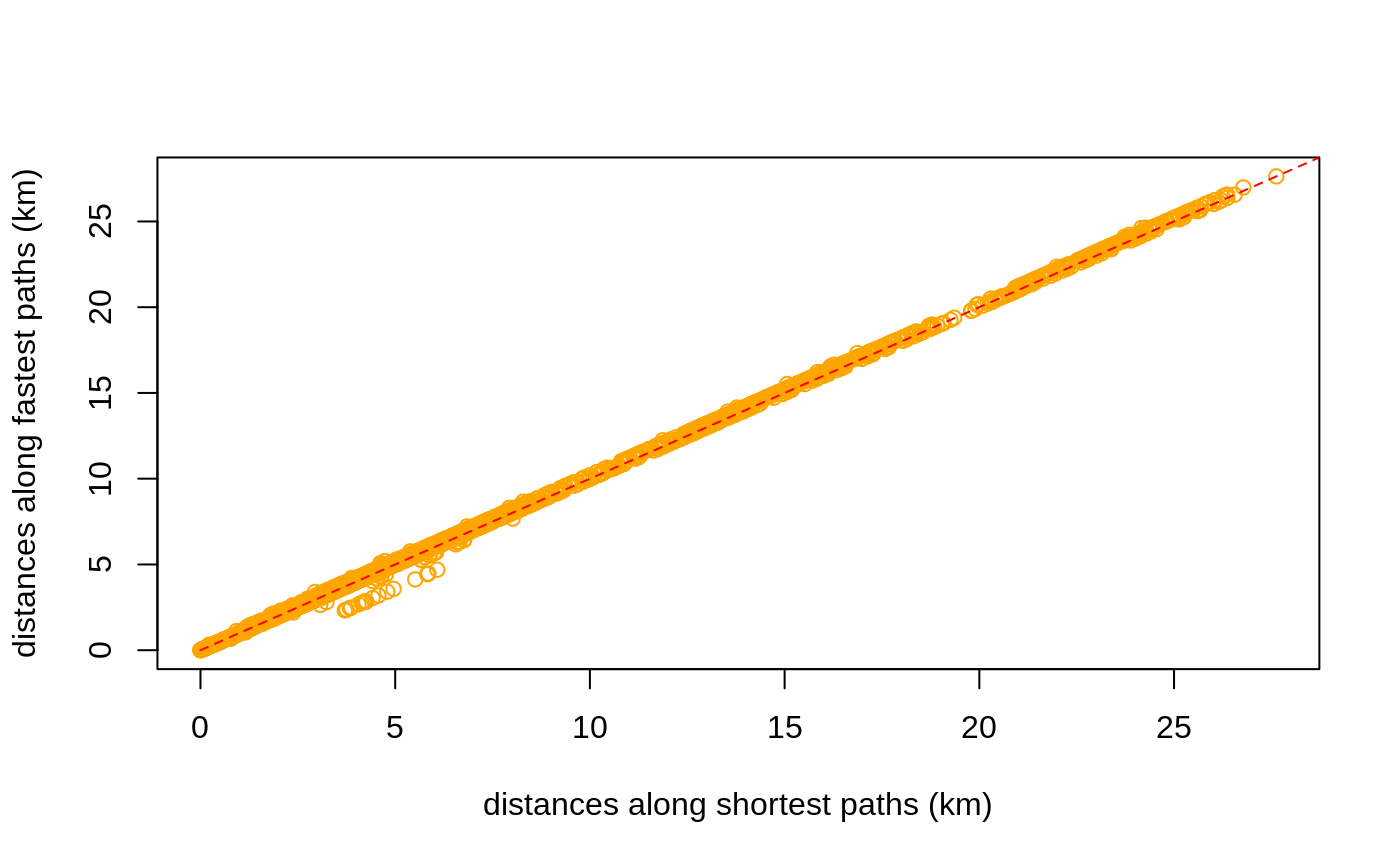
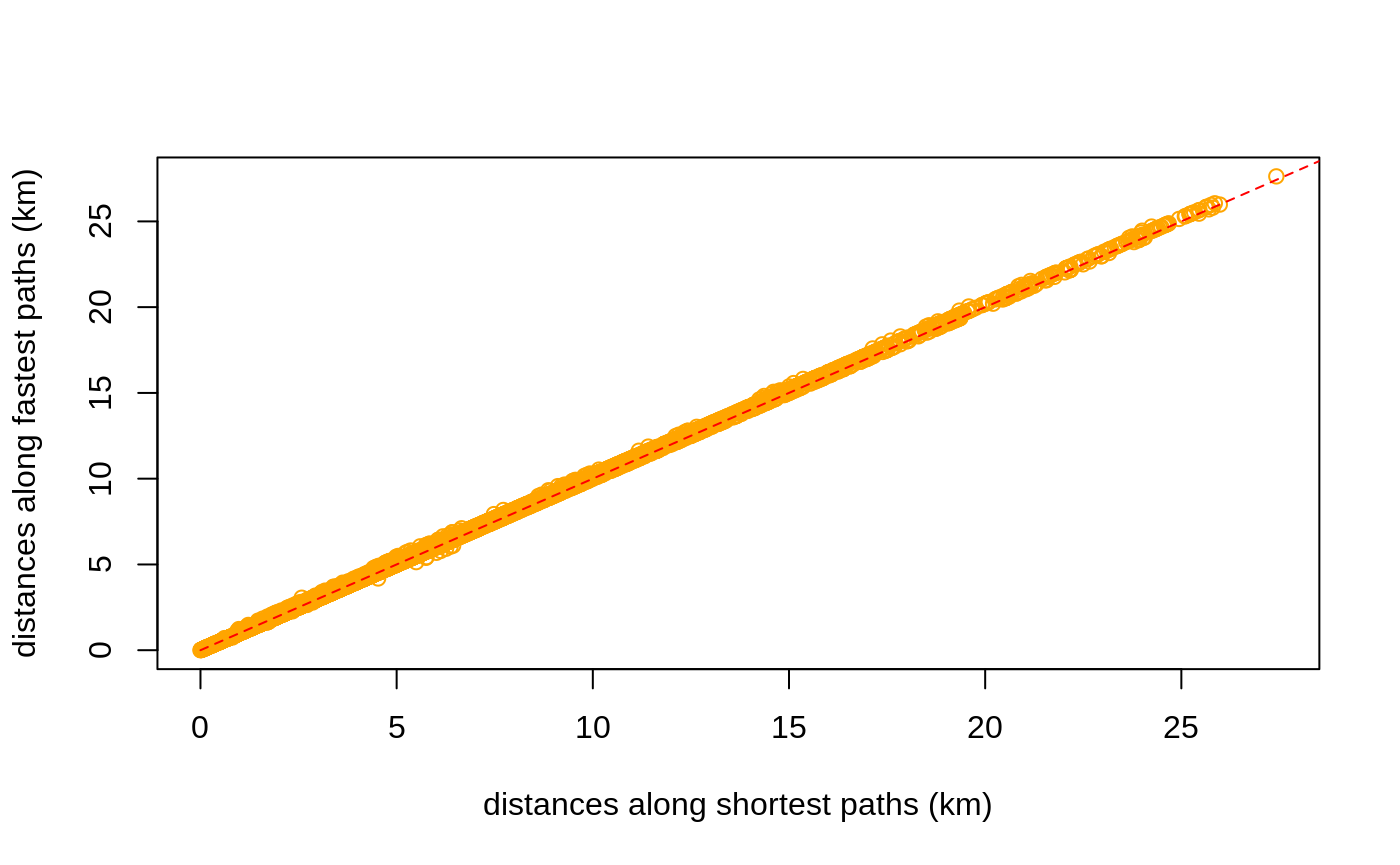
Built site for dodgr: 0.2.1@0293e0c

diff --git a/articles/dodgr.html b/articles/dodgr.html
@@ -346,7 +346,7 @@ Figure 2: A <strong>dual</strong>-weighted, directed graph in which the weights 
 <p>The <code>dodgr</code> packages includes a function to select a random connected portion of graph including a specified number of vertices. This function is used in the <a href="https://atfutures.github.io/dodgr/reference/compare_heaps.html"><code><a href="../reference/compare_heaps.html">compare_heaps()</a></code></a> function described below, but is also useful for general statistical analyses of large graphs which may otherwise take too long to compute.</p>
 <div class="sourceCode" id="cb58"><pre class="sourceCode r"><code class="sourceCode r"><a class="sourceLine" id="cb58-1" data-line-number="1">graph_sub &lt;-<span class="st"> </span><span class="kw"><a href="../reference/dodgr_sample.html">dodgr_sample</a></span> (graph, <span class="dt">nverts =</span> <span class="dv">100</span>)</a>
 <a class="sourceLine" id="cb58-2" data-line-number="2"><span class="kw"><a href="https://rdrr.io/r/base/nrow.html">nrow</a></span> (graph_sub)</a></code></pre></div>
-<pre><code>## [1] 197</code></pre>
+<pre><code>## [1] 207</code></pre>
 <p>The random sample has around twice as many edges as vertices, in accordance with the statistics calculated above.</p>
 <div class="sourceCode" id="cb60"><pre class="sourceCode r"><code class="sourceCode r"><a class="sourceLine" id="cb60-1" data-line-number="1"><span class="kw"><a href="https://rdrr.io/r/base/nrow.html">nrow</a></span> (<span class="kw"><a href="../reference/dodgr_vertices.html">dodgr_vertices</a></span> (graph_sub))</a></code></pre></div>
 <pre><code>## [1] 100</code></pre>
@@ -369,7 +369,7 @@ Figure 2: A <strong>dual</strong>-weighted, directed graph in which the weights 
 <div class="sourceCode" id="cb63"><pre class="sourceCode r"><code class="sourceCode r"><a class="sourceLine" id="cb63-1" data-line-number="1">d &lt;-<span class="st"> </span><span class="kw"><a href="../reference/dodgr_dists.html">dodgr_dists</a></span> (graph, <span class="dt">from =</span> xy)</a>
 <a class="sourceLine" id="cb63-2" data-line-number="2"><span class="kw"><a href="https://rdrr.io/r/base/dim.html">dim</a></span> (d); <span class="kw"><a href="https://rdrr.io/r/base/range.html">range</a></span> (d, <span class="dt">na.rm =</span> <span class="ot">TRUE</span>)</a></code></pre></div>
 <pre><code>## [1]  100 2926</code></pre>
-<pre><code>## [1]     0.00 28677.34</code></pre>
+<pre><code>## [1]     0.00 28081.71</code></pre>
 <p>If the <code>to</code> argument is also specified, the matrix returned will have rows matching <code>from</code> and columns matching <code>to</code></p>
 <div class="sourceCode" id="cb66"><pre class="sourceCode r"><code class="sourceCode r"><a class="sourceLine" id="cb66-1" data-line-number="1">d &lt;-<span class="st"> </span><span class="kw"><a href="../reference/dodgr_dists.html">dodgr_dists</a></span> (graph, <span class="dt">from =</span> xy, <span class="dt">to =</span> xy [<span class="dv">1</span><span class="op">:</span><span class="dv">10</span>, ])</a>
 <a class="sourceLine" id="cb66-2" data-line-number="2"><span class="kw"><a href="https://rdrr.io/r/base/dim.html">dim</a></span> (d)</a></code></pre></div>
@@ -427,27 +427,27 @@ Figure 2: A <strong>dual</strong>-weighted, directed graph in which the weights 
 ## 11        d &lt;- dodgr_dists(graph_contracted, from = from_id, to = to_id, heap = "set")
 ## 7       d &lt;- dodgr_dists(graph_contracted, from = from_id, to = to_id, heap = "FHeap")
 ## 9  d &lt;- dodgr_dists(graph_contracted, from = from_id, to = to_id, heap = "TriHeapExt")
-## 8     d &lt;- dodgr_dists(graph_contracted, from = from_id, to = to_id, heap = "TriHeap")
 ## 10     d &lt;- dodgr_dists(graph_contracted, from = from_id, to = to_id, heap = "Heap23")
+## 8     d &lt;- dodgr_dists(graph_contracted, from = from_id, to = to_id, heap = "TriHeap")
 ## 1                  d &lt;- dodgr_dists(graph, from = from_id, to = to_id, heap = "BHeap")
 ## 12                  d &lt;- igraph::distances(igr, v = from_id, to = to_id, mode = "out")
 ## 2                  d &lt;- dodgr_dists(graph, from = from_id, to = to_id, heap = "FHeap")
-## 5                 d &lt;- dodgr_dists(graph, from = from_id, to = to_id, heap = "Heap23")
 ## 3                d &lt;- dodgr_dists(graph, from = from_id, to = to_id, heap = "TriHeap")
+## 5                 d &lt;- dodgr_dists(graph, from = from_id, to = to_id, heap = "Heap23")
 ## 4             d &lt;- dodgr_dists(graph, from = from_id, to = to_id, heap = "TriHeapExt")
 ##    replications elapsed relative user.self sys.self user.child sys.child
-## 6             1   0.004     1.00     0.006        0          0         0
-## 11            1   0.005     1.25     0.006        0          0         0
-## 7             1   0.006     1.50     0.009        0          0         0
-## 9             1   0.006     1.50     0.006        0          0         0
-## 8             1   0.007     1.75     0.009        0          0         0
-## 10            1   0.007     1.75     0.009        0          0         0
-## 1             1   0.015     3.75     0.022        0          0         0
-## 12            1   0.021     5.25     0.020        0          0         0
-## 2             1   0.022     5.50     0.038        0          0         0
-## 5             1   0.025     6.25     0.043        0          0         0
-## 3             1   0.026     6.50     0.045        0          0         0
-## 4             1   0.027     6.75     0.028        0          0         0</code></pre>
+## 6             1   0.005      1.0     0.006    0.000          0         0
+## 11            1   0.005      1.0     0.003    0.004          0         0
+## 7             1   0.006      1.2     0.010    0.000          0         0
+## 9             1   0.007      1.4     0.008    0.000          0         0
+## 10            1   0.007      1.4     0.011    0.000          0         0
+## 8             1   0.008      1.6     0.011    0.000          0         0
+## 1             1   0.016      3.2     0.026    0.000          0         0
+## 12            1   0.023      4.6     0.023    0.000          0         0
+## 2             1   0.024      4.8     0.042    0.000          0         0
+## 3             1   0.029      5.8     0.051    0.000          0         0
+## 5             1   0.029      5.8     0.051    0.000          0         0
+## 4             1   0.032      6.4     0.032    0.000          0         0</code></pre>
 <p>The key column of that <code>data.frame</code> is <code>relative</code>, which quantifies the relative performance of each test in relation to the best which is given a score of 1. <code>dodgr</code> using the default <code>heap = "BHeap"</code>, which is a binary heap priority queue, performs faster than <a href="https://igraph.org"><code>igraph</code></a> <span class="citation">(Csardi and Nepusz 2006)</span> for these graphs. Different kind of graphs will perform differently with different priority queue structures, and this function enables users to empirically discern the optimal heap for their kind of graph.</p>
 <p>Note, however, that this is not an entirely fair comparison, because <code>dodgr</code> calculates dual-weighted distances, whereas <a href="https://igraph.org"><code>igraph</code></a>—and indeed all other <strong>R</strong> packages—only directly calculate distances based on a single set of weights. Implementing dual-weighted routing in these cases requires explicitly re-tracing all paths and summing the second set of weights along each path. A time comparison in that case would be very strongly in favour of <code>dodgr</code>. Moreover, <code>dodgr</code> can convert graphs to contracted form through removing redundant vertices, as detailed in the following section. Doing so greatly improves performance with respect to <a href="https://igraph.org"><code>igraph</code></a>.</p>
 <p>For those wishing to do explicit comparisons themselves, the following code generates the <a href="https://igraph.org"><code>igraph</code></a> equivalent of <a href="https://atfutures.github.io/dodgr/reference/dodgr_distances.html"><code><a href="../reference/dodgr_distances.html">dodgr_distances()</a></code></a>, although of course for single-weighted graphs only:</p>
@@ -482,11 +482,11 @@ Figure 3: <strong>(A)</strong> Vertex#2 is redundant for routing calculations fr
 <a class="sourceLine" id="cb84-5" data-line-number="5">                       d2 &lt;-<span class="st"> </span><span class="kw"><a href="../reference/dodgr_dists.html">dodgr_dists</a></span> (graph, <span class="dt">from =</span> from, <span class="dt">to =</span> to),</a>
 <a class="sourceLine" id="cb84-6" data-line-number="6">                       <span class="dt">replications =</span> <span class="dv">2</span>)</a></code></pre></div>
 <pre><code>##                                             test replications elapsed
-## 2 d2 &lt;- dodgr_dists(graph, from = from, to = to)            2   0.044
-## 1   d2 &lt;- dodgr_dists(grc, from = from, to = to)            2   0.008
+## 2 d2 &lt;- dodgr_dists(graph, from = from, to = to)            2   0.045
+## 1   d2 &lt;- dodgr_dists(grc, from = from, to = to)            2   0.010
 ##   relative user.self sys.self user.child sys.child
-## 2      5.5     0.062        0          0         0
-## 1      1.0     0.011        0          0         0</code></pre>
+## 2      4.5     0.064    0.000          0         0
+## 1      1.0     0.008    0.004          0         0</code></pre>
 <p>And contracting the graph has a similar effect of speeding up pairwise routing between these 100 points. All routing algorithms scale non-linearly with size, and relative improvements in efficiency will be even greater for larger graphs.</p>
 <div id="routing-on-contracted-graphs" class="section level2">
 <h2 class="hasAnchor">
@@ -498,11 +498,11 @@ Figure 3: <strong>(A)</strong> Vertex#2 is redundant for routing calculations fr
 <pre><code>## [1] 672</code></pre>
 <div class="sourceCode" id="cb88"><pre class="sourceCode r"><code class="sourceCode r"><a class="sourceLine" id="cb88-1" data-line-number="1">verts &lt;-<span class="st"> </span><span class="kw"><a href="https://rdrr.io/r/base/sample.html">sample</a></span> (<span class="kw"><a href="../reference/dodgr_vertices.html">dodgr_vertices</a></span> (graph)<span class="op">$</span>id, <span class="dt">size =</span> <span class="dv">100</span>)</a>
 <a class="sourceLine" id="cb88-2" data-line-number="2"><span class="kw"><a href="https://rdrr.io/r/utils/head.html">head</a></span> (verts) <span class="co"># a character vector</span></a></code></pre></div>
-<pre><code>## [1] "2627422270" "6161853540" "2398957988" "2195425065" "2608076457"
-## [6] "2398957591"</code></pre>
+<pre><code>## [1] "980400701"  "3818704553" "2195424982" "2398957756" "339288064" 
+## [6] "339574833"</code></pre>
 <div class="sourceCode" id="cb90"><pre class="sourceCode r"><code class="sourceCode r"><a class="sourceLine" id="cb90-1" data-line-number="1">grc &lt;-<span class="st"> </span><span class="kw"><a href="../reference/dodgr_contract_graph.html">dodgr_contract_graph</a></span> (graph, verts)</a>
 <a class="sourceLine" id="cb90-2" data-line-number="2"><span class="kw"><a href="https://rdrr.io/r/base/nrow.html">nrow</a></span> (grc)</a></code></pre></div>
-<pre><code>## [1] 844</code></pre>
+<pre><code>## [1] 848</code></pre>
 <p>Retaining the nominated vertices yields a graph with considerably more edges than the fully contracted graph excluding these vertices. The <a href="https://atfutures.github.io/dodgr/reference/dodgr_distances.html"><code><a href="../reference/dodgr_distances.html">dodgr_distances()</a></code></a> function can be applied to the latter graph to obtain accurate distances precisely routed between these points, yet using the speed advantages of graph contraction.</p>
 </div>
 </div>
@@ -543,74 +543,41 @@ Figure 3: <strong>(A)</strong> Vertex#2 is redundant for routing calculations fr
 <pre><code>## [1] 10</code></pre>
 <p>The result (<code>dp</code>) is a list of 10 items, each of which contains 5 vectors. An example is,</p>
 <div class="sourceCode" id="cb97"><pre class="sourceCode r"><code class="sourceCode r"><a class="sourceLine" id="cb97-1" data-line-number="1">dp [[<span class="dv">1</span>]] [[<span class="dv">1</span>]]</a></code></pre></div>
-<pre><code>##   [1] "2717241327" "2717241336" "2717241333" "2717241308" "339574826" 
-##   [6] "339574825"  "339574824"  "339574823"  "1668645472" "1668645470"
-##  [11] "3818714154" "339574820"  "339574819"  "3818714155" "2398957686"
-##  [16] "339574631"  "2717241324" "1148814809" "2398957654" "2398957639"
-##  [21] "339574630"  "339574629"  "2398957619" "339574628"  "1427115955"
-##  [26] "338905128"  "1376769164" "1376768779" "338905219"  "2398957589"
-##  [31] "2398957588" "1376768510" "1376769086" "2398957584" "338905220" 
-##  [36] "2398957576" "1427594104" "2398957571" "2398957570" "2398957568"
-##  [41] "338905221"  "2398957564" "338905227"  "2398957561" "2398957557"
-##  [46] "2398957549" "338905245"  "2398957546" "2398957544" "2398957543"
-##  [51] "2398957542" "676635860"  "2398957537" "2398957532" "2398957526"
-##  [56] "2398957521" "676875267"  "2398957539" "2419196948" "313796433" 
-##  [61] "1376768773" "2398957554" "2398957555" "313796432"  "3338186986"
-##  [66] "2398957563" "2398957567" "313796431"  "313796430"  "1376769158"
-##  [71] "1427594112" "313796429"  "2398957603" "313796428"  "313796427" 
-##  [76] "1128374399" "313796426"  "1128374495" "2398957696" "2398957701"
-##  [81] "1376768565" "2398957713" "1376769010" "2398957720" "313796425" 
-##  [86] "2398957722" "1376768805" "245631169"  "676875269"  "1128374442"
-##  [91] "1376769190" "1128374412" "6161027522" "1128374373" "1128374467"
-##  [96] "1376768504" "1161117304" "1376768867" "676875274"  "1376768293"
-## [101] "1376768650" "1128374447" "1376769132" "676875308"  "1376768537"
-## [106] "1161117735" "1376768899" "1161117723" "1376768325" "1376768597"
-## [111] "1357430113" "1376768957" "676875276"  "1376768380" "1357430014"
-## [116] "1376768749" "1376769220" "1128374360" "1161117548" "1357430213"
-## [121] "676875279"  "1128374362" "1376768627" "245631194"  "1376768986"
-## [126] "1376768409" "1128374418" "977461235"  "1376768691" "2398957816"
-## [131] "1128374394" "2398957826" "2398957837" "1376769040" "1376768479"
-## [136] "677638770"  "1376768821" "1128374434" "2398957895" "2398957896"
-## [141] "1376768842" "1128374455" "1376768355" "677638819"  "1376768724"
-## [146] "2398957939" "1161117636" "2398957968" "1128374490" "2398958005"
-## [151] "2398958010" "1161117434" "6433630456" "677638818"  "2398958040"
-## [156] "2398958041" "2398958043" "2398958044" "1161117327" "1128374463"
-## [161] "1691496075" "1691496072" "1161117278" "1691496070" "677638820" 
-## [166] "1161117679" "1691496079" "1161117383" "1691495929" "1161117501"
-## [171] "1376769146" "1161117440" "1691495934" "1161117756" "1691495939"
-## [176] "1161117392" "1691495943" "1691495952" "1161117526" "1691495982"
-## [181] "1161117586" "1161117652" "677638817"  "1691495985" "1691495910"
-## [186] "1161117288" "1691496204" "1691496236" "1161117404" "1691496237"
-## [191] "1691496247" "1161117704" "1691496243" "1691496251" "1161117663"
-## [196] "1691495937" "1691495665" "1161117302" "1691495672" "1161117452"
-## [201] "1691495677" "1691495680" "1691495693" "1161117543" "1691495696"
-## [206] "245631502"  "1691495698" "1161117349" "1691495717" "1691495720"
-## [211] "1691495723" "677638823"  "677638822"  "1691495727" "676875383" 
-## [216] "1691496081" "1161117620" "1161117473" "1691496086" "677638821" 
-## [221] "1691496190" "1691496364" "1161117772" "1161117358" "1161117413"
-## [226] "677638829"  "1691496367" "1691495745" "1691496372" "1691496406"
-## [231] "1691496404" "1691496375" "1691496407" "677638825"  "1691496409"
-## [236] "1161117556" "1691496412" "677638828"  "1691496416" "677638827" 
-## [241] "3544918684" "3544918688" "3544918690" "3544918692" "3544918695"
-## [246] "1691496284" "3544918699" "3544918701" "3544918705" "3544918708"
-## [251] "3544918716" "3544918720" "3544918725" "3544918731" "3544918732"
-## [256] "3544918733" "3544918735" "3544918740" "3544918741" "3544918742"
-## [261] "3544918739" "3544918737" "3544918736" "3544918738" "3544918734"
-## [266] "3544918730" "3544918729" "3544918728" "3544918727" "3544918722"
-## [271] "3544918718" "3544918717" "3544918715" "3544918714" "3544918712"
-## [276] "3544918710" "3544918709" "3544918711" "3544918713" "3544918719"
-## [281] "3544918726" "3544918745"</code></pre>
+<pre><code>##   [1] "5351515767" "5351515766" "571423197"  "1388482150" "571423196" 
+##   [6] "5351515768" "5366412454" "571423195"  "571423194"  "571423457" 
+##  [11] "571423455"  "571423453"  "571423451"  "571423445"  "571423444" 
+##  [16] "571423442"  "2195425022" "2195425021" "2195425017" "2195425015"
+##  [21] "2195425011" "2195425009" "2195425008" "2195425007" "2195425006"
+##  [26] "2195425001" "3921514726" "5358983984" "3921514728" "3921514727"
+##  [31] "3921514722" "3921514724" "3921514719" "3921514721" "3921514723"
+##  [36] "3921514720" "3921514718" "571423169"  "571423164"  "571423157" 
+##  [41] "2627444773" "2627444772" "2627444771" "571423824"  "571423823" 
+##  [46] "571423821"  "571423820"  "1143452467" "2627444770" "571423819" 
+##  [51] "1143452332" "571423818"  "571423815"  "571423809"  "1143452536"
+##  [56] "1143452116" "571423799"  "1143452264" "571423793"  "3697940693"
+##  [61] "3697940688" "1143452506" "1143452099" "1143452234" "1143452360"
+##  [66] "1143452063" "1143452135" "1143452293" "1143452415" "1143452087"
+##  [71] "1143452174" "1143452183" "1143452379" "1143452262" "1143452410"
+##  [76] "1143452232" "2627440424" "2627440420" "1143452145" "1143452534"
+##  [81] "1143452383" "1143452207" "1143452113" "1143452463" "1143452327"
+##  [86] "1143452165" "2627428625" "2627428633" "2627428631" "2627428628"
+##  [91] "2627428627" "2627428629" "2627428647" "2627428637" "2627430653"
+##  [96] "2627428651" "2627428638" "2627428646" "2627428641" "2627428645"
+## [101] "2627428643" "3921512068" "2627428642" "2627428640" "2627428636"
+## [106] "2608163935" "2627428648" "2627428650" "2608163925" "2608163923"
+## [111] "2608163921" "2608163920" "2608163919" "2608163918" "2608163917"
+## [116] "2608163916" "2608163915" "2608163914" "2608163913" "4337853836"</code></pre>
 <p>For spatial graphs, the coordinates of these paths can be obtained by extracting the vertices with <code><a href="../reference/dodgr_vertices.html">dodgr_vertices()</a></code> and matching the vertex IDs:</p>
 <div class="sourceCode" id="cb99"><pre class="sourceCode r"><code class="sourceCode r"><a class="sourceLine" id="cb99-1" data-line-number="1">verts &lt;-<span class="st"> </span><span class="kw"><a href="../reference/dodgr_vertices.html">dodgr_vertices</a></span> (graph)</a>
 <a class="sourceLine" id="cb99-2" data-line-number="2">path1 &lt;-<span class="st"> </span>verts [<span class="kw"><a href="https://rdrr.io/r/base/match.html">match</a></span> (dp [[<span class="dv">1</span>]] [[<span class="dv">1</span>]], verts<span class="op">$</span>id), ]</a>
 <a class="sourceLine" id="cb99-3" data-line-number="3"><span class="kw"><a href="https://rdrr.io/r/utils/head.html">head</a></span> (path1)</a></code></pre></div>
-<pre><code>##              id        x        y component    n
-## 4388 2717241327 76.47233 15.32016         1 2188
-## 4390 2717241336 76.47211 15.31990         1 2189
-## 4392 2717241333 76.47200 15.31976         1 2190
-## 4394 2717241308 76.47182 15.31964         1 2191
-## 548   339574826 76.47161 15.31962         1  279
-## 546   339574825 76.47156 15.31936         1  278</code></pre>
+<pre><code>##              id        x        y component   n
+## 1706 5351515767 76.47885 15.35852         2 864
+## 1704 5351515766 76.47801 15.35853         2 863
+## 1702  571423197 76.47671 15.35856         2 862
+## 1700 1388482150 76.47641 15.35847         2 861
+## 1698  571423196 76.47626 15.35833         2 860
+## 1696 5351515768 76.47600 15.35806         2 859</code></pre>
 <p>Paths calculated on contracted graphs will of course have fewer vertices than those calculated on full graphs.</p>
 </div>
 <div id="aggregated-flows" class="section level1">
@@ -654,7 +621,7 @@ Figure 3: <strong>(A)</strong> Vertex#2 is redundant for routing calculations fr
 <p>Most flows are zero because they have only been calculated between very few points in the graph.</p>
 <div class="sourceCode" id="cb104"><pre class="sourceCode r"><code class="sourceCode r"><a class="sourceLine" id="cb104-1" data-line-number="1"><span class="kw"><a href="https://rdrr.io/r/base/summary.html">summary</a></span> (graph_f<span class="op">$</span>flow)</a></code></pre></div>
 <pre><code>##    Min. 1st Qu.  Median    Mean 3rd Qu.    Max. 
-##   0.000   0.000   0.000   6.882   0.000  91.170</code></pre>
+##  0.0000  0.0000  0.0000  5.5647  0.6107 66.1367</code></pre>
 </div>
 <div id="flow-dispersal" class="section level2">
 <h2 class="hasAnchor">
@@ -663,8 +630,8 @@ Figure 3: <strong>(A)</strong> Vertex#2 is redundant for routing calculations fr
 <div class="sourceCode" id="cb106"><pre class="sourceCode r"><code class="sourceCode r"><a class="sourceLine" id="cb106-1" data-line-number="1">dens &lt;-<span class="st"> </span><span class="kw"><a href="https://rdrr.io/r/base/rep.html">rep</a></span> (<span class="dv">1</span>, <span class="kw"><a href="https://rdrr.io/r/base/length.html">length</a></span> (from)) <span class="co"># uniform densities</span></a>
 <a class="sourceLine" id="cb106-2" data-line-number="2">graph_f &lt;-<span class="st"> </span><span class="kw"><a href="../reference/dodgr_flows_disperse.html">dodgr_flows_disperse</a></span> (graph, <span class="dt">from =</span> from, <span class="dt">dens =</span> dens)</a>
 <a class="sourceLine" id="cb106-3" data-line-number="3"><span class="kw"><a href="https://rdrr.io/r/base/summary.html">summary</a></span> (graph_f<span class="op">$</span>flow)</a></code></pre></div>
-<pre><code>##     Min.  1st Qu.   Median     Mean  3rd Qu.     Max. 
-## 0.000000 0.000000 0.009538 0.128795 0.145532 1.413170</code></pre>
+<pre><code>##    Min. 1st Qu.  Median    Mean 3rd Qu.    Max. 
+## 0.00000 0.00000 0.00838 0.10536 0.11043 1.19536</code></pre>
 </div>
 <div id="merging-directed-flows" class="section level2">
 <h2 class="hasAnchor">
@@ -674,7 +641,7 @@ Figure 3: <strong>(A)</strong> Vertex#2 is redundant for routing calculations fr
 <p>Resultant graphs produced by <a href="https://atfutures.github.io/dodgr/reference/merge_directed_flows.html"><code><a href="../reference/merge_directed_flows.html">merge_directed_flows()</a></code></a> only include those edges having non-zero flows, and so:</p>
 <div class="sourceCode" id="cb109"><pre class="sourceCode r"><code class="sourceCode r"><a class="sourceLine" id="cb109-1" data-line-number="1"><span class="kw"><a href="https://rdrr.io/r/base/nrow.html">nrow</a></span> (graph_f); <span class="kw"><a href="https://rdrr.io/r/base/nrow.html">nrow</a></span> (graph_undir) <span class="co"># the latter is much smaller</span></a></code></pre></div>
 <pre><code>## [1] 5973</code></pre>
-<pre><code>## [1] 2924</code></pre>
+<pre><code>## [1] 2784</code></pre>
 <p>The resultant graph can readily be merged with the original graph to regain the original data on vertex coordinates through</p>
 <div class="sourceCode" id="cb112"><pre class="sourceCode r"><code class="sourceCode r"><a class="sourceLine" id="cb112-1" data-line-number="1">graph &lt;-<span class="st"> </span>graph [graph_undir<span class="op">$</span>edge_id, ]</a>
 <a class="sourceLine" id="cb112-2" data-line-number="2">graph<span class="op">$</span>flow &lt;-<span class="st"> </span>graph_undir<span class="op">$</span>flow</a></code></pre></div>

diff --git a/articles/times.html b/articles/times.html
@@ -230,11 +230,11 @@ Figure 1: Graph modification to account for turn penalties, which introduces the
 <p><img src="times_files/figure-html/shortest-vs-fastest-1.png" width="700"></p>
 <p>The average distance between the two (in metres) is:</p>
 <div class="sourceCode" id="cb9"><pre class="sourceCode r"><code class="sourceCode r"><a class="sourceLine" id="cb9-1" data-line-number="1"><span class="kw"><a href="https://rdrr.io/r/base/mean.html">mean</a></span> (<span class="kw"><a href="https://rdrr.io/r/base/MathFun.html">abs</a></span> (d_time <span class="op">-</span><span class="st"> </span>d_dist), <span class="dt">na.rm =</span> <span class="ot">TRUE</span>)</a></code></pre></div>
-<pre><code>## [1] 42.15932</code></pre>
+<pre><code>## [1] 61.92335</code></pre>
 <p>The plot reveals that shortest distances are indeed somewhat shorter than distances along fastest paths, but also that some fastest paths are actually shorter than shortest paths:</p>
 <div class="sourceCode" id="cb11"><pre class="sourceCode r"><code class="sourceCode r"><a class="sourceLine" id="cb11-1" data-line-number="1">index &lt;-<span class="st"> </span><span class="kw"><a href="https://rdrr.io/r/base/which.html">which</a></span> (<span class="op">!</span><span class="kw"><a href="https://rdrr.io/r/base/NA.html">is.na</a></span> (d_time) <span class="op">&amp;</span><span class="st"> </span><span class="op">!</span><span class="kw"><a href="https://rdrr.io/r/base/NA.html">is.na</a></span> (d_dist))</a>
 <a class="sourceLine" id="cb11-2" data-line-number="2"><span class="kw"><a href="https://rdrr.io/r/base/length.html">length</a></span> (<span class="kw"><a href="https://rdrr.io/r/base/which.html">which</a></span> (d_time [index] <span class="op">&lt;</span><span class="st"> </span>d_dist [index])) <span class="op">/</span><span class="st"> </span><span class="kw"><a href="https://rdrr.io/r/base/length.html">length</a></span> (index)</a></code></pre></div>
-<pre><code>## [1] 0.02313433</code></pre>
+<pre><code>## [1] 0.003161222</code></pre>
 <p>While <code>dodgr</code> and indeed all routing engines attempt to maximally reconcile differences between fastest and shortest routes, there nevertheless remain important discrepancies. Foremost among these, and the primary reason why some fastest routes may in fact be shorter than shortest routes, is that fastest routes allocate preferences for different kinds of way based both on the <code>value</code> column in the <code>weighting_profiles$weighting_profiles</code> table illustrated above, and on the actual maximum speed of a given edge, which itself may be a combination of maximum speeds as specified in OSM itself, maximum speeds from the <code>weighting_profiles$weighting_profiles</code> table, or values specific to a given surface. The result is that some unique combination of maximum speeds along a network may lead to <em>fastest</em> routes being preferentially directed along a path that is actually shorter than the direct shortest path which is calculated independent of maximum speed values.</p>
 <p>Such discrepancies are important in understanding differences in routes <em>times</em> calculated along shortest versus fastest paths. These times can be calculated (in seconds) with the <a href="https://atfutures.github.io/dodgr/reference/dodgr_times.html"><code><a href="../reference/dodgr_times.html">dodgr_times()</a></code></a> function:</p>
 <div class="sourceCode" id="cb13"><pre class="sourceCode r"><code class="sourceCode r"><a class="sourceLine" id="cb13-1" data-line-number="1">t_dist &lt;-<span class="st"> </span><span class="kw"><a href="../reference/dodgr_times.html">dodgr_times</a></span> (graph, <span class="dt">from =</span> from, <span class="dt">to =</span> to, <span class="dt">shortest =</span> <span class="ot">TRUE</span>) <span class="co"># default</span></a>
@@ -245,11 +245,11 @@ Figure 1: Graph modification to account for turn penalties, which introduces the
 <a class="sourceLine" id="cb13-6" data-line-number="6"><span class="kw"><a href="https://rdrr.io/r/graphics/lines.html">lines</a></span> (<span class="dv">0</span><span class="op">:</span><span class="dv">100</span>, <span class="dv">0</span><span class="op">:</span><span class="dv">100</span>, <span class="dt">col =</span> <span class="st">"red"</span>, <span class="dt">lty =</span> <span class="dv">2</span>)</a></code></pre></div>
 <p><img src="times_files/figure-html/shortest-vs-fastest-times-1.png" width="700"></p>
 <div class="sourceCode" id="cb14"><pre class="sourceCode r"><code class="sourceCode r"><a class="sourceLine" id="cb14-1" data-line-number="1"><span class="kw"><a href="https://rdrr.io/r/base/mean.html">mean</a></span> (<span class="kw"><a href="https://rdrr.io/r/base/MathFun.html">abs</a></span> (t_time <span class="op">-</span><span class="st"> </span>t_dist), <span class="dt">na.rm =</span> <span class="ot">TRUE</span>)</a></code></pre></div>
-<pre><code>## [1] 46.11975</code></pre>
+<pre><code>## [1] 57.85908</code></pre>
 <p>As above, times along fastest paths are generally less than times along shortest paths, although there are again a few exceptions:</p>
 <div class="sourceCode" id="cb16"><pre class="sourceCode r"><code class="sourceCode r"><a class="sourceLine" id="cb16-1" data-line-number="1">index &lt;-<span class="st"> </span><span class="kw"><a href="https://rdrr.io/r/base/which.html">which</a></span> (<span class="op">!</span><span class="kw"><a href="https://rdrr.io/r/base/NA.html">is.na</a></span> (t_time) <span class="op">&amp;</span><span class="st"> </span><span class="op">!</span><span class="kw"><a href="https://rdrr.io/r/base/NA.html">is.na</a></span> (t_dist))</a>
 <a class="sourceLine" id="cb16-2" data-line-number="2"><span class="kw"><a href="https://rdrr.io/r/base/length.html">length</a></span> (<span class="kw"><a href="https://rdrr.io/r/base/which.html">which</a></span> (t_dist [index] <span class="op">&lt;</span><span class="st"> </span>t_time [index])) <span class="op">/</span><span class="st"> </span><span class="kw"><a href="https://rdrr.io/r/base/length.html">length</a></span> (index)</a></code></pre></div>
-<pre><code>## [1] 0.007276119</code></pre>
+<pre><code>## [1] 0.01703548</code></pre>
 <p>These results demonstrate how the combination of the <a href="https://atfutures.github.io/dodgr/reference/dodgr_distances.html"><code><a href="../reference/dodgr_distances.html">dodgr_distances()</a></code></a> and <a href="https://atfutures.github.io/dodgr/reference/dodgr_times.html"><code><a href="../reference/dodgr_times.html">dodgr_times()</a></code></a> functions enable calculation of both distances and times along both shortest and fastest paths.</p>
 <div id="time-based-paths-and-flow-aggregation" class="section level2">
 <h2 class="hasAnchor">

diff --git a/reference/compare_heaps.html b/reference/compare_heaps.html
@@ -156,8 +156,8 @@ fair comparisons, run only once or re-start the current R session.</p>
     <h2 class="hasAnchor" id="examples"><a class="anchor" href="#examples"></a>Examples</h2>
     <pre class="examples"><div class='input'><span class='no'>graph</span> <span class='kw'>&lt;-</span> <span class='fu'><a href='weight_streetnet.html'>weight_streetnet</a></span> (<span class='no'>hampi</span>)
 <span class='fu'>compare_heaps</span> (<span class='no'>graph</span>, <span class='kw'>nverts</span> <span class='kw'>=</span> <span class='fl'>1000</span>, <span class='kw'>replications</span> <span class='kw'>=</span> <span class='fl'>1</span>)</div><div class='output co'>#&gt;                                                                                   test
-#&gt; 11        d &lt;- dodgr_dists(graph_contracted, from = from_id, to = to_id, heap = "set")
 #&gt; 6       d &lt;- dodgr_dists(graph_contracted, from = from_id, to = to_id, heap = "BHeap")
+#&gt; 11        d &lt;- dodgr_dists(graph_contracted, from = from_id, to = to_id, heap = "set")
 #&gt; 7       d &lt;- dodgr_dists(graph_contracted, from = from_id, to = to_id, heap = "FHeap")
 #&gt; 8     d &lt;- dodgr_dists(graph_contracted, from = from_id, to = to_id, heap = "TriHeap")
 #&gt; 9  d &lt;- dodgr_dists(graph_contracted, from = from_id, to = to_id, heap = "TriHeapExt")
@@ -166,21 +166,21 @@ fair comparisons, run only once or re-start the current R session.</p>
 #&gt; 12                  d &lt;- igraph::distances(igr, v = from_id, to = to_id, mode = "out")
 #&gt; 2                  d &lt;- dodgr_dists(graph, from = from_id, to = to_id, heap = "FHeap")
 #&gt; 3                d &lt;- dodgr_dists(graph, from = from_id, to = to_id, heap = "TriHeap")
-#&gt; 5                 d &lt;- dodgr_dists(graph, from = from_id, to = to_id, heap = "Heap23")
 #&gt; 4             d &lt;- dodgr_dists(graph, from = from_id, to = to_id, heap = "TriHeapExt")
+#&gt; 5                 d &lt;- dodgr_dists(graph, from = from_id, to = to_id, heap = "Heap23")
 #&gt;    replications elapsed relative user.self sys.self user.child sys.child
-#&gt; 11            1   0.004     1.00     0.005        0          0         0
-#&gt; 6             1   0.005     1.25     0.006        0          0         0
-#&gt; 7             1   0.006     1.50     0.009        0          0         0
-#&gt; 8             1   0.006     1.50     0.010        0          0         0
-#&gt; 9             1   0.006     1.50     0.006        0          0         0
-#&gt; 10            1   0.006     1.50     0.010        0          0         0
-#&gt; 1             1   0.015     3.75     0.023        0          0         0
-#&gt; 12            1   0.020     5.00     0.021        0          0         0
-#&gt; 2             1   0.023     5.75     0.039        0          0         0
-#&gt; 3             1   0.026     6.50     0.046        0          0         0
-#&gt; 5             1   0.026     6.50     0.045        0          0         0
-#&gt; 4             1   0.028     7.00     0.028        0          0         0</div></pre>
+#&gt; 6             1   0.003    1.000     0.005    0.000          0         0
+#&gt; 11            1   0.003    1.000     0.000    0.003          0         0
+#&gt; 7             1   0.004    1.333     0.006    0.000          0         0
+#&gt; 8             1   0.005    1.667     0.006    0.000          0         0
+#&gt; 9             1   0.005    1.667     0.005    0.000          0         0
+#&gt; 10            1   0.005    1.667     0.006    0.000          0         0
+#&gt; 1             1   0.013    4.333     0.017    0.000          0         0
+#&gt; 12            1   0.015    5.000     0.015    0.000          0         0
+#&gt; 2             1   0.018    6.000     0.029    0.000          0         0
+#&gt; 3             1   0.020    6.667     0.033    0.000          0         0
+#&gt; 4             1   0.020    6.667     0.021    0.000          0         0
+#&gt; 5             1   0.020    6.667     0.029    0.004          0         0</div></pre>
   </div>
   <div class="col-md-3 hidden-xs hidden-sm" id="sidebar">
     <h2>Contents</h2>

diff --git a/reference/match_points_to_graph.html b/reference/match_points_to_graph.html
@@ -155,9 +155,9 @@ matching.</p></td>
                   <span class='kw'>y</span> <span class='kw'>=</span> <span class='fu'><a href='https://rdrr.io/r/base/Extremes.html'>min</a></span> (<span class='no'>verts</span>$<span class='no'>y</span>) + <span class='fu'><a href='https://rdrr.io/r/stats/Uniform.html'>runif</a></span> (<span class='no'>npts</span>) * <span class='fu'><a href='https://rdrr.io/r/base/diff.html'>diff</a></span> (<span class='fu'><a href='https://rdrr.io/r/base/range.html'>range</a></span> (<span class='no'>verts</span>$<span class='no'>y</span>))
                   )
 <span class='no'>pts</span> <span class='kw'>&lt;-</span> <span class='fu'><a href='match_pts_to_graph.html'>match_pts_to_graph</a></span> (<span class='no'>verts</span>, <span class='no'>xy</span>)
-<span class='no'>pts</span> <span class='co'># an index into verts</span></div><div class='output co'>#&gt;  [1]  890  459  581  366 2493  739  871  750  519  738</div><div class='input'><span class='no'>pts</span> <span class='kw'>&lt;-</span> <span class='no'>verts</span>$<span class='no'>id</span> [<span class='no'>pts</span>]
-<span class='no'>pts</span> <span class='co'># names of those vertices</span></div><div class='output co'>#&gt;  [1] "571423209"  "2398958040" "3544918709" "2398957554" "3921517060"
-#&gt;  [6] "1204772804" "571423202"  "1204772759" "676875383"  "6025347259"</div></pre>
+<span class='no'>pts</span> <span class='co'># an index into verts</span></div><div class='output co'>#&gt;  [1]  385 1777  408  582 1776  738 2302 1780  443  738</div><div class='input'><span class='no'>pts</span> <span class='kw'>&lt;-</span> <span class='no'>verts</span>$<span class='no'>id</span> [<span class='no'>pts</span>]
+<span class='no'>pts</span> <span class='co'># names of those vertices</span></div><div class='output co'>#&gt;  [1] "1376768565" "2588146107" "676875308"  "3544918711" "2588119056"
+#&gt;  [6] "6025347259" "338905103"  "2588146138" "2398957895" "6025347259"</div></pre>
   </div>
   <div class="col-md-3 hidden-xs hidden-sm" id="sidebar">
     <h2>Contents</h2>

diff --git a/reference/match_pts_to_graph.html b/reference/match_pts_to_graph.html
@@ -155,9 +155,9 @@ matching.</p></td>
                   <span class='kw'>y</span> <span class='kw'>=</span> <span class='fu'><a href='https://rdrr.io/r/base/Extremes.html'>min</a></span> (<span class='no'>verts</span>$<span class='no'>y</span>) + <span class='fu'><a href='https://rdrr.io/r/stats/Uniform.html'>runif</a></span> (<span class='no'>npts</span>) * <span class='fu'><a href='https://rdrr.io/r/base/diff.html'>diff</a></span> (<span class='fu'><a href='https://rdrr.io/r/base/range.html'>range</a></span> (<span class='no'>verts</span>$<span class='no'>y</span>))
                   )
 <span class='no'>pts</span> <span class='kw'>&lt;-</span> <span class='fu'>match_pts_to_graph</span> (<span class='no'>verts</span>, <span class='no'>xy</span>)
-<span class='no'>pts</span> <span class='co'># an index into verts</span></div><div class='output co'>#&gt;  [1]  743  454  486 1776  871  510  900  517  520  890</div><div class='input'><span class='no'>pts</span> <span class='kw'>&lt;-</span> <span class='no'>verts</span>$<span class='no'>id</span> [<span class='no'>pts</span>]
-<span class='no'>pts</span> <span class='co'># names of those vertices</span></div><div class='output co'>#&gt;  [1] "1204772772" "2398958005" "1161117652" "2588119056" "571423202" 
-#&gt;  [6] "245631502"  "1143452386" "677638822"  "1691496081" "571423209" </div></pre>
+<span class='no'>pts</span> <span class='co'># an index into verts</span></div><div class='output co'>#&gt;  [1]  539 1516  443  424  743 1516  760 1688  760  456</div><div class='input'><span class='no'>pts</span> <span class='kw'>&lt;-</span> <span class='no'>verts</span>$<span class='no'>id</span> [<span class='no'>pts</span>]
+<span class='no'>pts</span> <span class='co'># names of those vertices</span></div><div class='output co'>#&gt;  [1] "1691496409" "1398748009" "2398957895" "1357430213" "1204772772"
+#&gt;  [6] "1398748009" "1204772780" "2195425131" "1204772780" "1161117434"</div></pre>
   </div>
   <div class="col-md-3 hidden-xs hidden-sm" id="sidebar">
     <h2>Contents</h2>

diff --git a/reference/dodgr_sample.html b/reference/dodgr_sample.html
@@ -143,7 +143,7 @@ the requested <code>nverts</code>.</p>
     <h2 class="hasAnchor" id="examples"><a class="anchor" href="#examples"></a>Examples</h2>
     <pre class="examples"><div class='input'><span class='no'>graph</span> <span class='kw'>&lt;-</span> <span class='fu'><a href='weight_streetnet.html'>weight_streetnet</a></span> (<span class='no'>hampi</span>)
 <span class='fu'><a href='https://rdrr.io/r/base/nrow.html'>nrow</a></span> (<span class='no'>graph</span>) <span class='co'># 5,742</span></div><div class='output co'>#&gt; [1] 5973</div><div class='input'><span class='no'>graph</span> <span class='kw'>&lt;-</span> <span class='fu'>dodgr_sample</span> (<span class='no'>graph</span>, <span class='kw'>nverts</span> <span class='kw'>=</span> <span class='fl'>200</span>)
-<span class='fu'><a href='https://rdrr.io/r/base/nrow.html'>nrow</a></span> (<span class='no'>graph</span>) <span class='co'># generally around 400 edges</span></div><div class='output co'>#&gt; [1] 422</div><div class='input'><span class='fu'><a href='https://rdrr.io/r/base/nrow.html'>nrow</a></span> (<span class='fu'><a href='dodgr_vertices.html'>dodgr_vertices</a></span> (<span class='no'>graph</span>)) <span class='co'># 200</span></div><div class='output co'>#&gt; [1] 200</div></pre>
+<span class='fu'><a href='https://rdrr.io/r/base/nrow.html'>nrow</a></span> (<span class='no'>graph</span>) <span class='co'># generally around 400 edges</span></div><div class='output co'>#&gt; [1] 411</div><div class='input'><span class='fu'><a href='https://rdrr.io/r/base/nrow.html'>nrow</a></span> (<span class='fu'><a href='dodgr_vertices.html'>dodgr_vertices</a></span> (<span class='no'>graph</span>)) <span class='co'># 200</span></div><div class='output co'>#&gt; [1] 200</div></pre>
   </div>
   <div class="col-md-3 hidden-xs hidden-sm" id="sidebar">
     <h2>Contents</h2>

diff --git a/reference/dodgr_full_cycles.html b/reference/dodgr_full_cycles.html
@@ -145,10 +145,12 @@ onto the original graph. This is far more computationally efficient than
 calculating fundamental cycles on a full (non-contracted) graph.</p>
 
     <h2 class="hasAnchor" id="examples"><a class="anchor" href="#examples"></a>Examples</h2>
-    <pre class="examples"><div class='input'><span class='no'>net</span> <span class='kw'>&lt;-</span> <span class='fu'><a href='weight_streetnet.html'>weight_streetnet</a></span> (<span class='no'>hampi</span>)
+    <pre class="examples"><div class='input'><span class='kw'>if</span> (<span class='fl'>FALSE</span>) {
+<span class='no'>net</span> <span class='kw'>&lt;-</span> <span class='fu'><a href='weight_streetnet.html'>weight_streetnet</a></span> (<span class='no'>hampi</span>)
 <span class='no'>graph</span> <span class='kw'>&lt;-</span> <span class='fu'><a href='dodgr_contract_graph.html'>dodgr_contract_graph</a></span> (<span class='no'>net</span>)
 <span class='no'>cyc1</span> <span class='kw'>&lt;-</span> <span class='fu'><a href='dodgr_fundamental_cycles.html'>dodgr_fundamental_cycles</a></span> (<span class='no'>graph</span>)
 <span class='no'>cyc2</span> <span class='kw'>&lt;-</span> <span class='fu'>dodgr_full_cycles</span> (<span class='no'>net</span>)
+}
 <span class='co'># cyc2 has same number of cycles, but each one is generally longer, through</span>
 <span class='co'># including all points intermediate to junctions; cyc1 has cycles composed of</span>
 <span class='co'># junction points only.</span></div></pre>

diff --git a/reference/merge_directed_flows.html b/reference/merge_directed_flows.html
@@ -157,7 +157,7 @@ flows.</p>
 <span class='co'># undirected flows on an equivalent undirected graph with:</span>
 <span class='no'>graph_undir</span> <span class='kw'>&lt;-</span> <span class='fu'>merge_directed_flows</span> (<span class='no'>graph</span>)
 <span class='co'># This graph will only include those edges having non-zero flows, and so:</span>
-<span class='fu'><a href='https://rdrr.io/r/base/nrow.html'>nrow</a></span> (<span class='no'>graph</span>); <span class='fu'><a href='https://rdrr.io/r/base/nrow.html'>nrow</a></span> (<span class='no'>graph_undir</span>) <span class='co'># the latter is much smaller</span></div><div class='output co'>#&gt; [1] 5973</div><div class='output co'>#&gt; [1] 1110</div></pre>
+<span class='fu'><a href='https://rdrr.io/r/base/nrow.html'>nrow</a></span> (<span class='no'>graph</span>); <span class='fu'><a href='https://rdrr.io/r/base/nrow.html'>nrow</a></span> (<span class='no'>graph_undir</span>) <span class='co'># the latter is much smaller</span></div><div class='output co'>#&gt; [1] 5973</div><div class='output co'>#&gt; [1] 901</div></pre>
   </div>
   <div class="col-md-3 hidden-xs hidden-sm" id="sidebar">
     <h2>Contents</h2>
